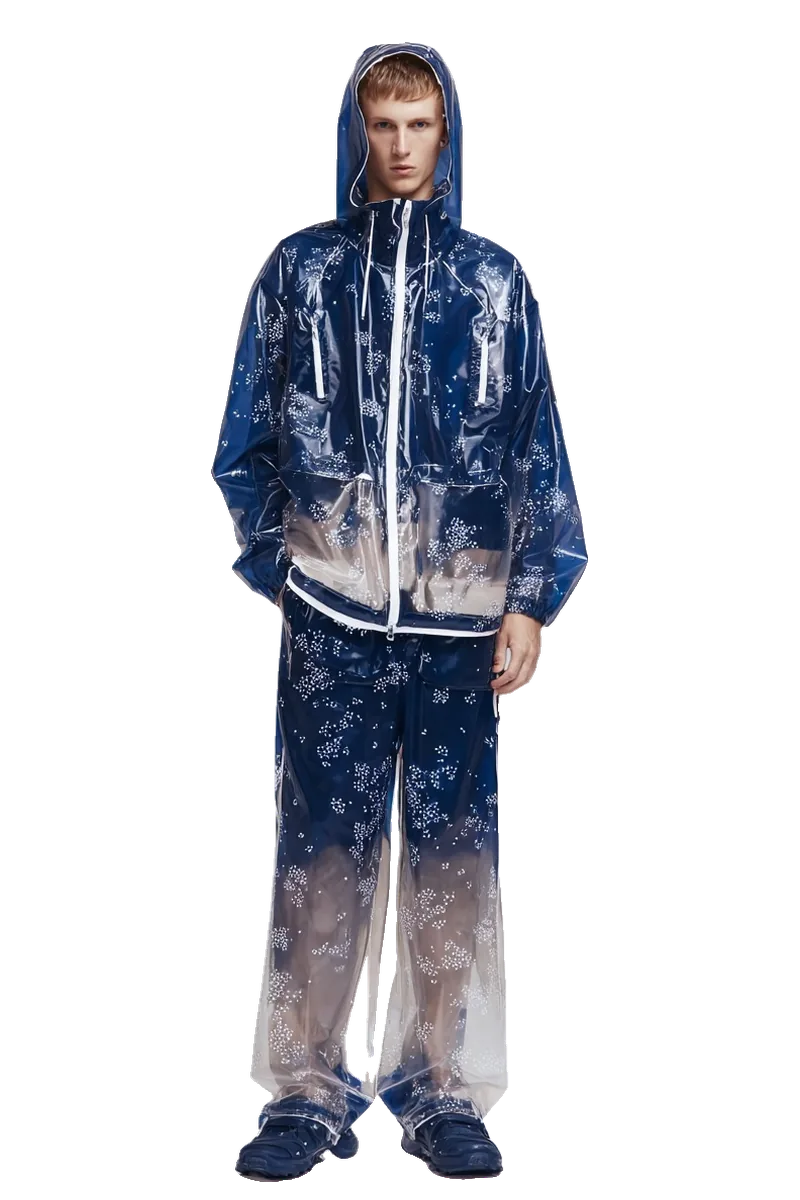
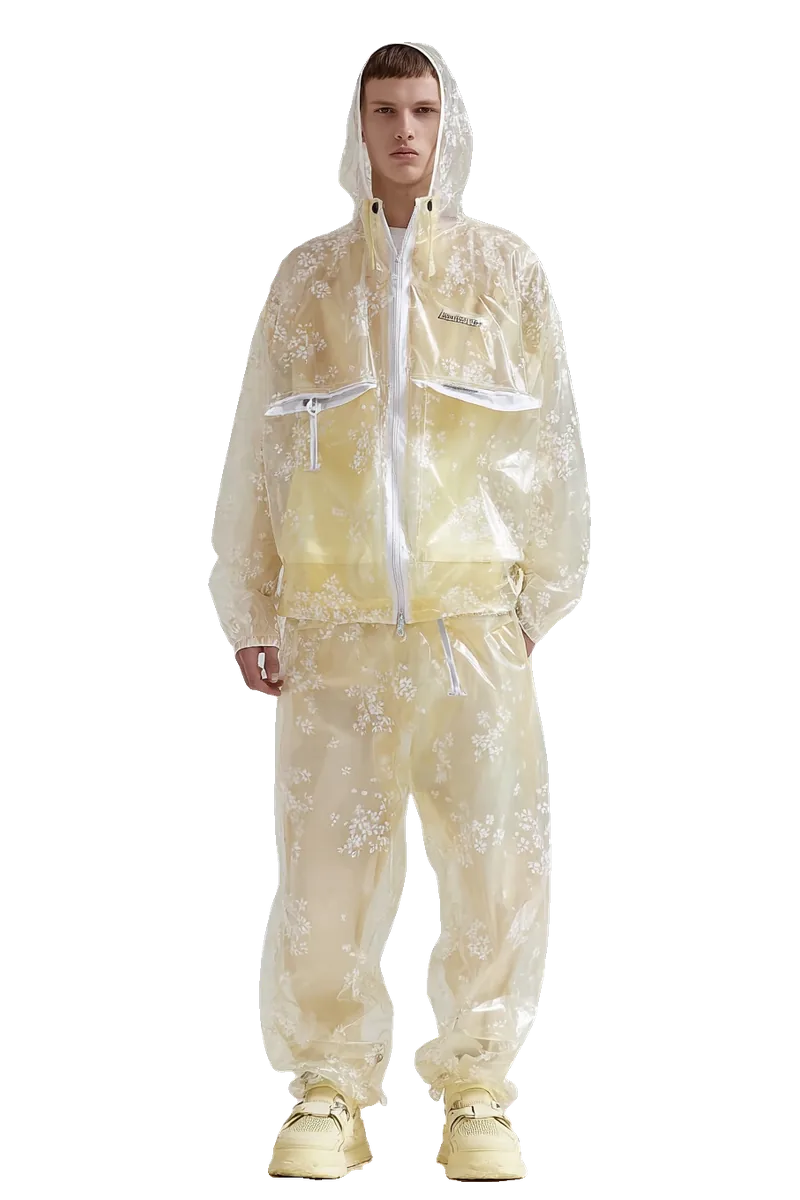
Sporty in pale yellow; cocoon hooded anorak for women fashion
Claude-Session: https://claude.ai/code/session_01YMBAkRuHP5nZdSGqmGgWNo

diff --git a/index.html b/index.html
@@ -308,7 +308,7 @@ const LOOKS = [
   { id: "romantic", name: "Romantic",          fill: "#f1ece4", trim: "#ffffff", mark: "ruffle" },
   { id: "tailored", name: "Power tailoring",   fill: "#4a5a78", trim: "#2f3b52", mark: "lapel" },
   { id: "future",   name: "Futuristic",        fill: "#aeb4bf", trim: "#e9ecf1", mark: "zip" },
-  { id: "sporty",   name: "Sporty",            fill: "#33456b", trim: "#ffffff", mark: "zip" }
+  { id: "sporty",   name: "Sporty",            fill: "#efe3a8", trim: "#b39d4a", mark: "zip" }
 ].map(l => {
   const f = "img/" + LOOK_FILES[l.id];
   return { ...l, img: f + "-women.webp", imgPractical: f + "-women-practical.webp", imgMen: f + "-men.webp", imgPracticalMen: f + "-men-practical.webp" };
